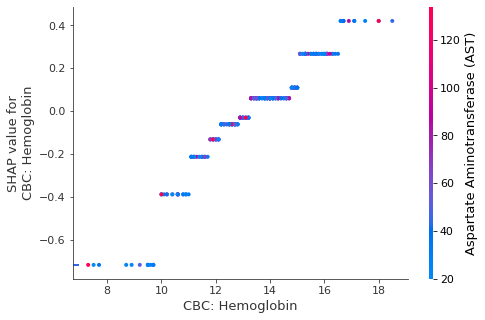
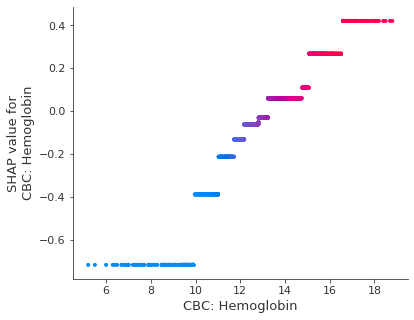
update infection SHAP plots for full data

diff --git a/calculator/feature_importance.py b/calculator/feature_importance.py
@@ -11,10 +11,7 @@ from analyzer.utils import store_json, change_SaO2
 import analyzer.dataset as ds
 
 import shap
-
-#%% 
 import matplotlib.pyplot as plt
-
 
 #%% ## Load Model and Data
 # Select model type.  
@@ -28,6 +25,11 @@ model_lab = 'with_lab'
 assert model_type in('mortality','infection'), "Invalid outcome"
 assert model_lab in('with_lab','without_lab'), "Invalid lab specification"
 
+#%% Set paths
+website_path = '/Users/hollywiberg/git/website/'
+path_cremona = '/Users/hollywiberg/Dropbox (MIT)/COVID_risk/covid19_cremona/data/'
+path_hm = '/Users/hollywiberg/Dropbox (MIT)/COVID_risk/covid19_hmfoundation/'
+
 #%% Load model corresponding to *model_type* and *model_lab*.
 
 with open(website_path+'assets/risk_calculators/'+model_type+'/model_'+model_lab+'.pkl', 'rb') as file:
@@ -36,7 +38,7 @@ with open(website_path+'assets/risk_calculators/'+model_type+'/model_'+model_lab
 model = model_file['model']
 features = model_file['json']
 columns = model_file['columns']
-
+imputer= model_file['imputer']
 
 #%% Load data: to be replaced once we store X_train and X_test. Currently no imputation
 
@@ -47,12 +49,12 @@ SEED = 1
 prediction = 'Outcome'if model_type == 'mortality' else 'Swab'
 swabs_data = False if model_type == 'mortality' else True
 comorbidities_data = True if model_type == 'mortality' else False
+discharge_data = True if model_type == 'mortality' else False 
 lab_tests = True if model_lab == 'with_lab' else False
 
 # ## Constant variables
 extra_data = False
 demographics_data = True
-discharge_data = True
 vitals_data = True
 
 name_datasets = np.asarray(['discharge', 'comorbidities', 'vitals', 'lab', 'demographics', 'swab'])
@@ -71,18 +73,20 @@ if model_type == "mortality":
                                           lab_tests, demographics_data, swabs_data, prediction = prediction)
 
     # Merge datasets, filter outliers, match format of stored model
-    X = pd.concat([X_cremona, X_spain], join='inner', ignore_index=True)
+    X0 = pd.concat([X_cremona, X_spain], join='inner', ignore_index=True)
     y = pd.concat([y_cremona, y_spain], ignore_index=True)
 else: 
-    X, y = X_cremona, y_cremona
+    X0, y = X_cremona, y_cremona
 
-X, bounds_dict = ds.filter_outliers(X)
-X = X[columns] 
+X0, bounds_dict = ds.filter_outliers(X0)
+X0 = X0[columns] 
+
+X = pd.DataFrame(imputer.transform(X0))
+X.columns =  X0.columns
+
 
 #%% Evaluate Model with SHAP
 ## Calculate SHAP values (for each observation x feature)
-
-shap.initjs()
 
 explainer = shap.TreeExplainer(model);
 shap_values = explainer.shap_values(X);
